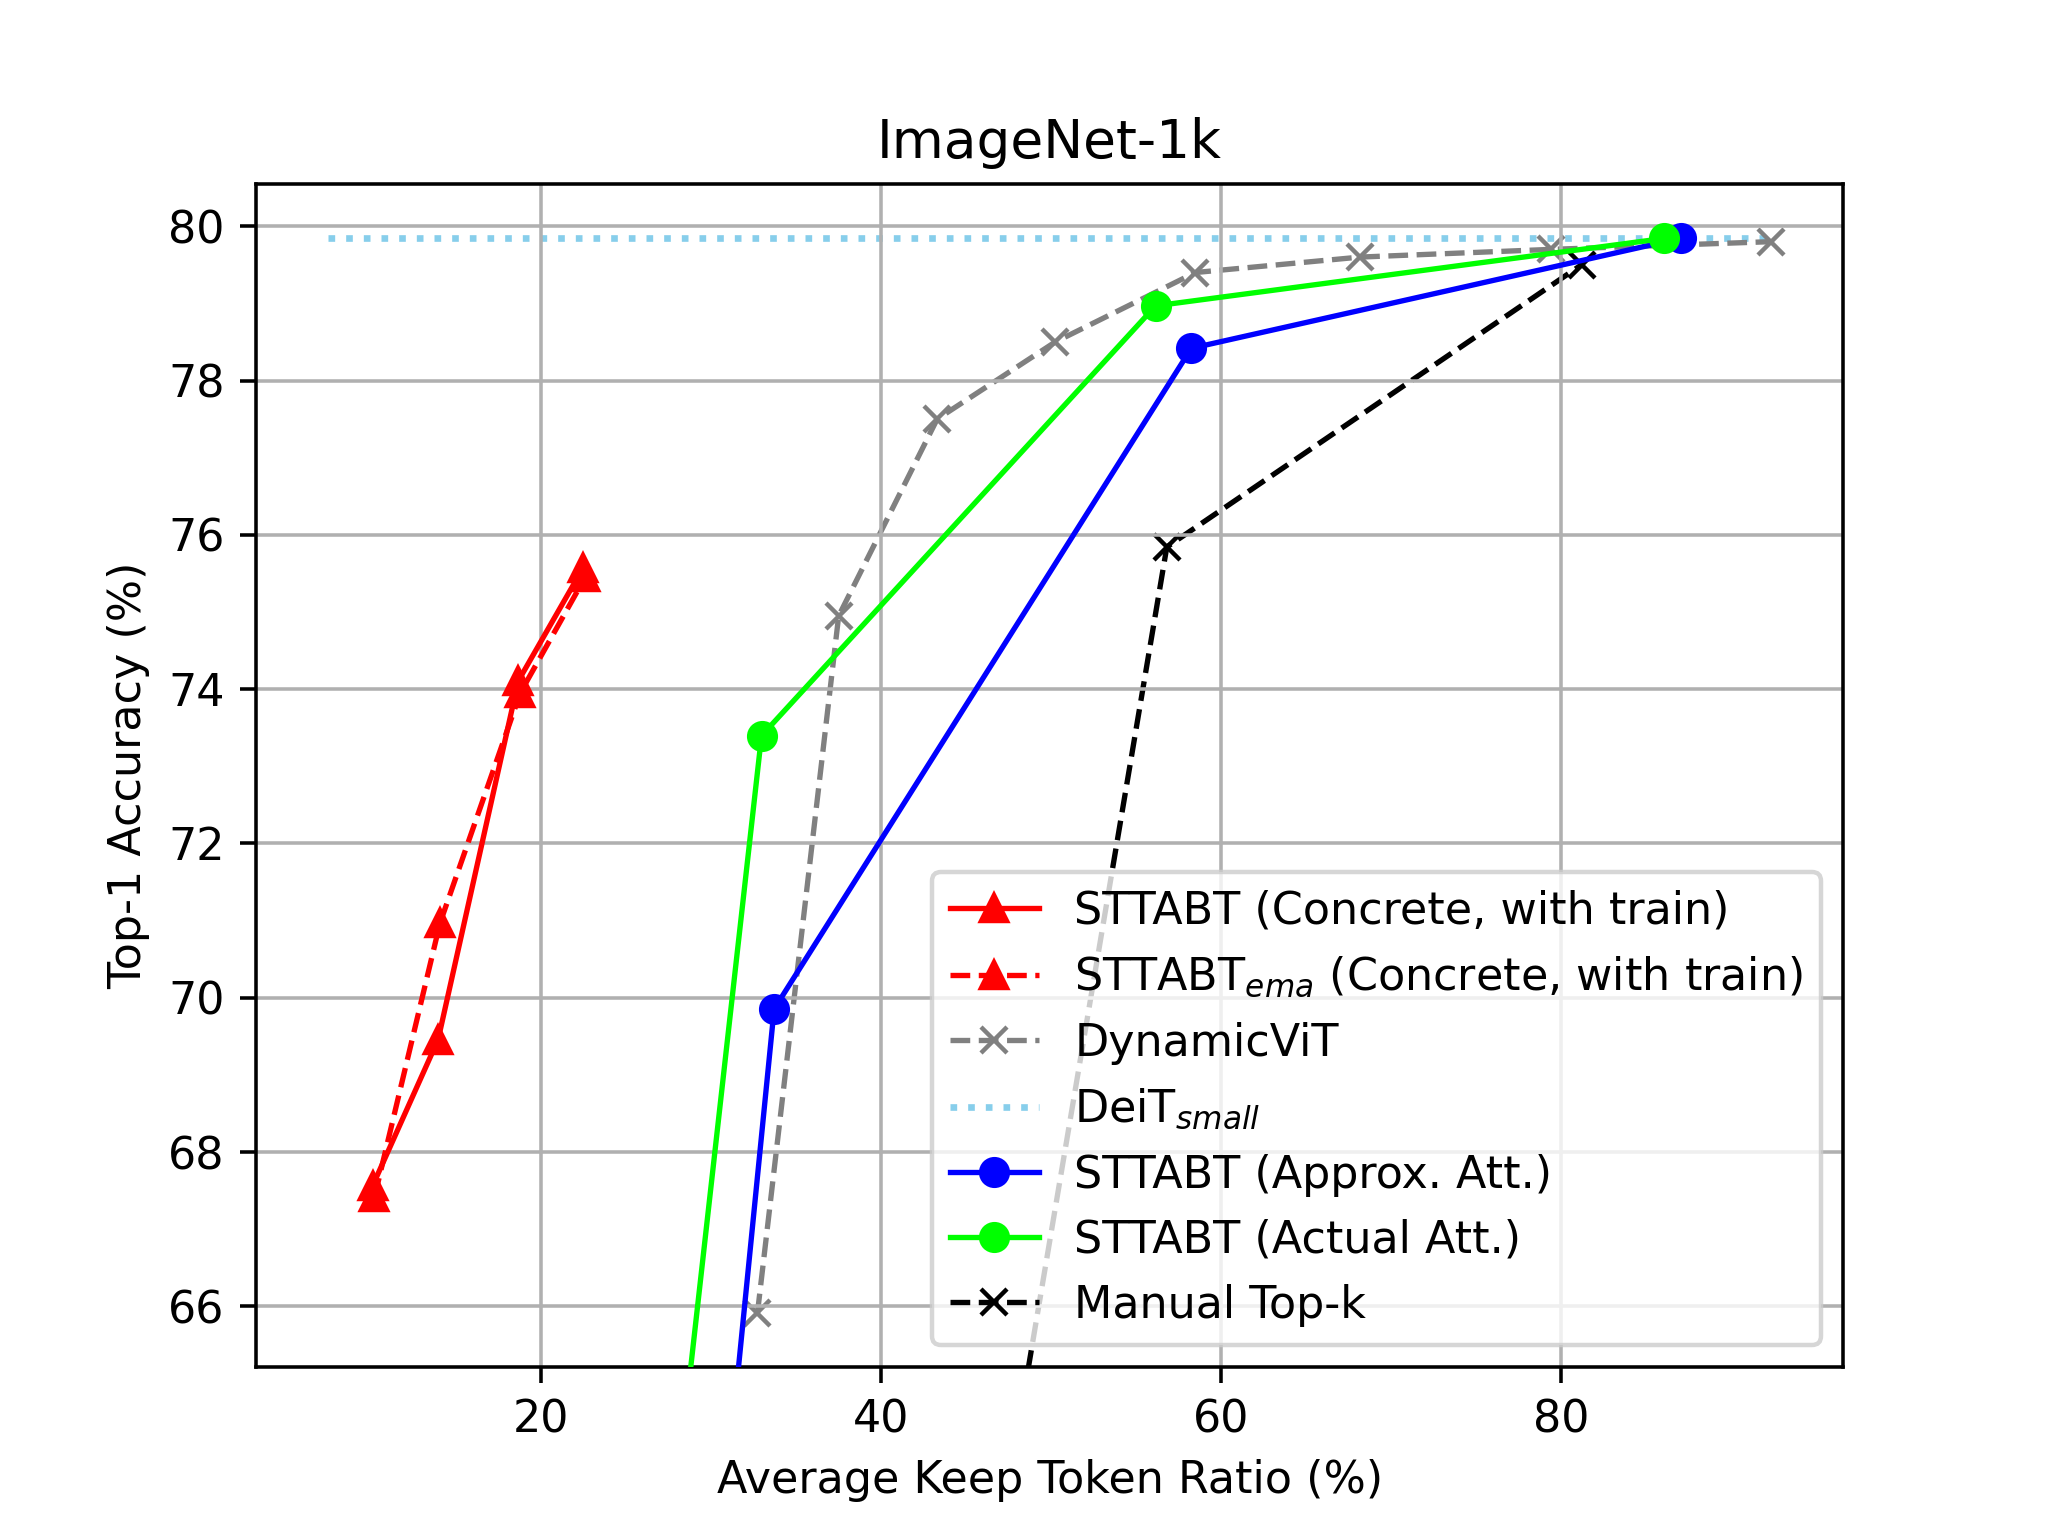
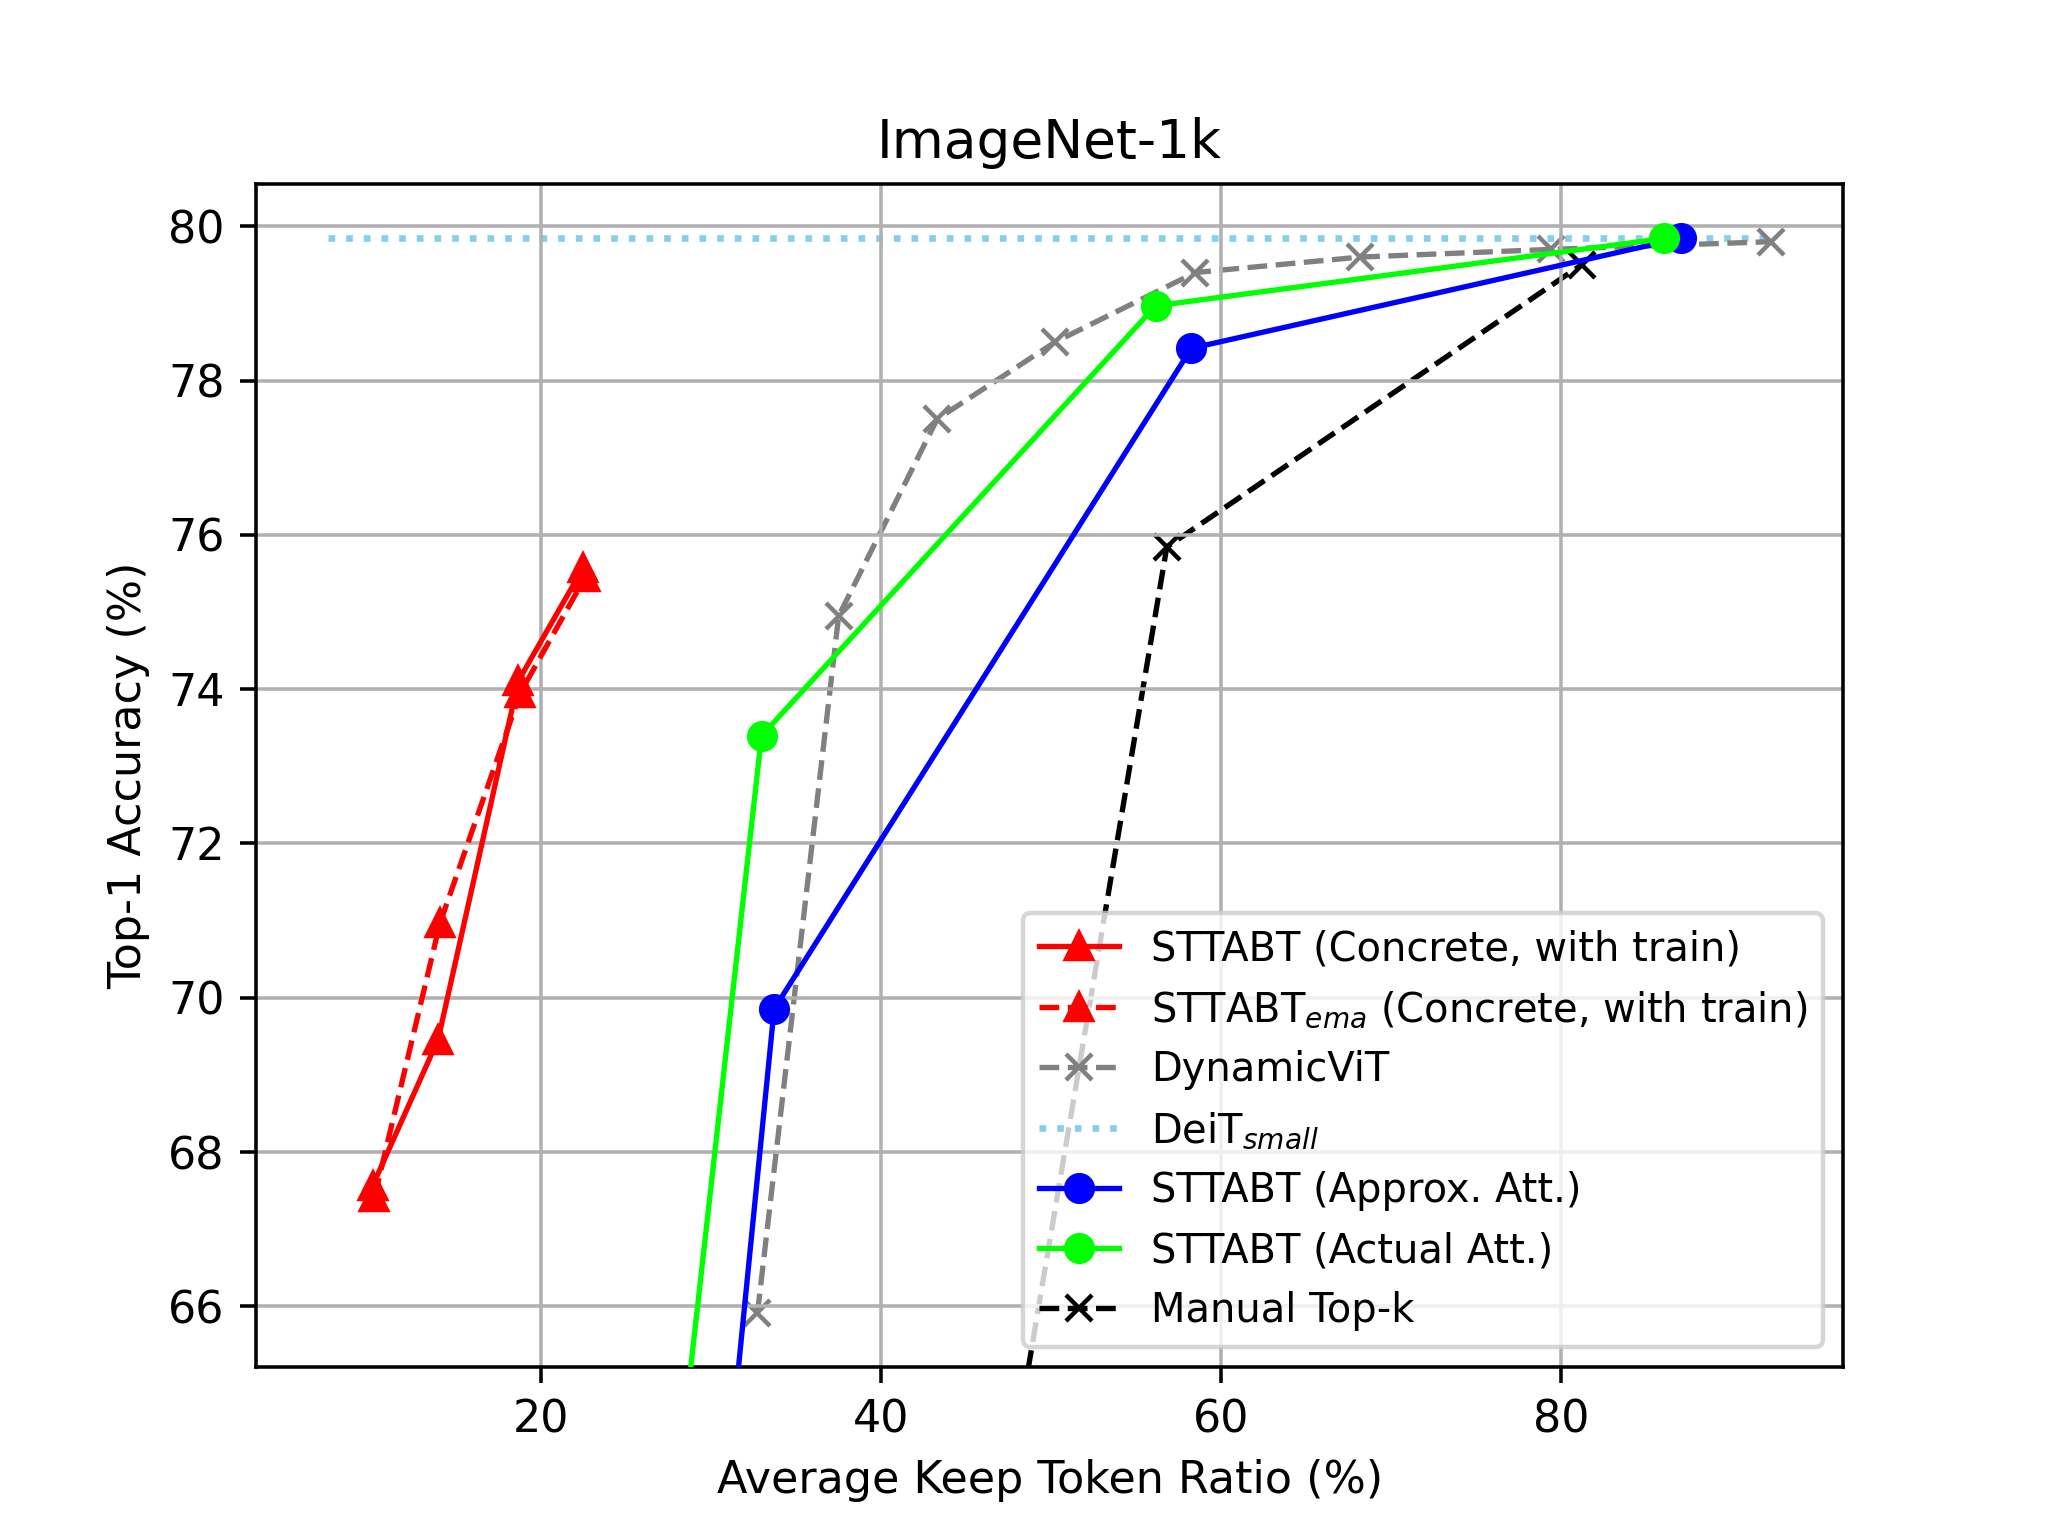
vit concrete reduce legend font size

Changed region(s): [[0.4375, 0.5625, 0.9062, 0.875]]

diff --git a/main/plot/vit_concrete_with_dyvit.py b/main/plot/vit_concrete_with_dyvit.py
@@ -167,7 +167,7 @@ def main(factor=4):
     plt.grid(True)
     plt.xlabel(STR_AVERAGE_KEEP_TOKEN_RATIO)
     plt.ylabel(STR_TOP1_ACCURACY)
-    plt.legend()
+    plt.legend(prop={'size': 9})
     plt.title(f'{STR_IMAGENET_1K}', fontsize=12)
 
     plt.savefig(f'{PLOT_NAME}.png', dpi=320)
